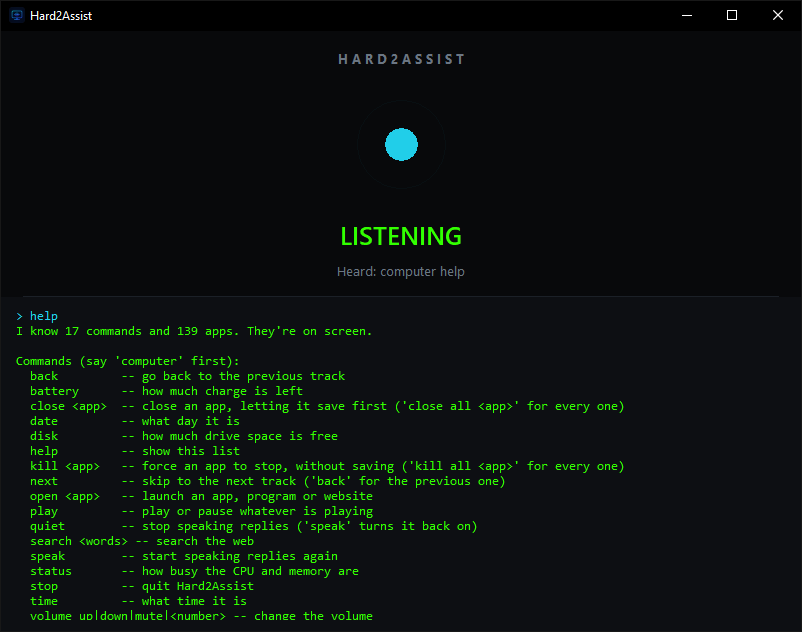
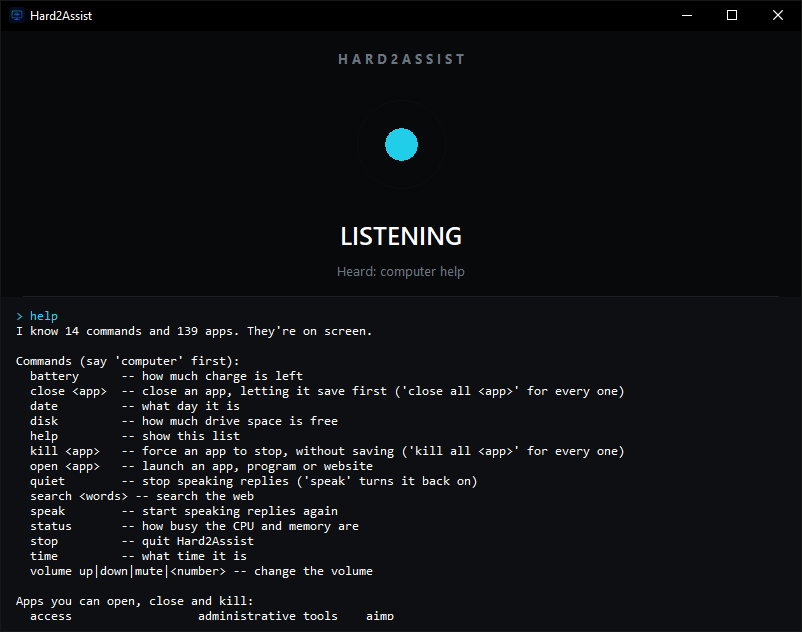
re writing

diff --git a/win.py b/win.py
@@ -157,15 +157,11 @@ def close_window(hwnd):
     raise OSError(ctypes.WinError(ctypes.get_last_error()))
 
 
-# Media and volume virtual-key codes. Windows treats these as keystrokes from
-# a keyboard with media buttons and routes them to whatever is playing --
-# Spotify, a YouTube tab, VLC -- with no need to know which.
+# Volume virtual-key codes. Windows treats these as keystrokes from a keyboard
+# with volume buttons, so they adjust the system volume like real key presses.
 VK_VOLUME_MUTE = 0xAD
 VK_VOLUME_DOWN = 0xAE
 VK_VOLUME_UP = 0xAF
-VK_MEDIA_NEXT = 0xB0
-VK_MEDIA_PREVIOUS = 0xB1
-VK_MEDIA_PLAY_PAUSE = 0xB3
 
 KEYEVENTF_KEYUP = 0x0002
 

diff --git a/theme.py b/theme.py
@@ -1,6 +1,6 @@
 """Colours and fonts, kept in one place so the look is easy to change.
 
-Dark background, cyan accent, green log text.
+Dark background, cyan accent, white log text.
 """
 
 BG = "#08090b"          # window background
@@ -9,7 +9,7 @@ LINE = "#1b2027"        # hairline dividers
 
 ACCENT = "#22d3ee"      # cyan: the app is alive and listening
 ACCENT_DIM = "#0e7490"  # faded cyan, used by the outer pulse ring
-TEXT = "#33ff00"        # normal log text
+TEXT = "#fcfdfc"        # normal log text
 DIM = "#6b7683"         # grey: hints and secondary lines
 WARN = "#f59e0b"        # amber: something did not work
 

diff --git a/README.md b/README.md
@@ -2,7 +2,7 @@
 
 # Hard2Assist
 
-**Talk to your PC. It listens, does the thing, and tells you it did.**
+**WINDOWS VOICE ASSISTANT.**
 
 Hard2Assist is a voice assistant for Windows. Say **"computer"** followed by a command
 and it opens programs and websites, closes windows, controls volume and media playback,
@@ -68,8 +68,6 @@ you want:
 | `computer disk` | 🔊 *"C has 58 gigabytes free"* |
 | `computer volume 50` | sets it to exactly 50%. "fifty" works too |
 | `computer volume up` | louder. `down` and `mute` too |
-| `computer play` | play or pause whatever is playing |
-| `computer next` | skip a track. `back` for the previous one |
 | `computer search how to cook rice` | opens the results in your browser |
 | `computer help` | lists everything it knows |
 | `computer stop` | quits |
@@ -83,7 +81,7 @@ Every command confirms what it did, and the log keeps the whole conversation:
 A few things worth knowing while you use it:
 
 - **It talks back.** Short answers are spoken; long lists are written to the window
-  instead, so `computer help` says *"I know 17 commands and 139 apps, they're on screen"*
+  instead, so `computer help` says *"I know 14 commands and 139 apps, they're on screen"*
   rather than reading all of them out. Say `computer quiet` to silence it and
   `computer speak` to turn the voice back on.
 
@@ -185,7 +183,7 @@ build.py            builds the .exe
 commands/
   TextCommands/     answers      help time date battery status disk
   SystemApps/       acting       open close kill
-  Controls/         the PC       volume play next back quiet speak stop
+  Controls/         the PC       volume quiet speak stop
   Web/              online       search
 
 apps/
